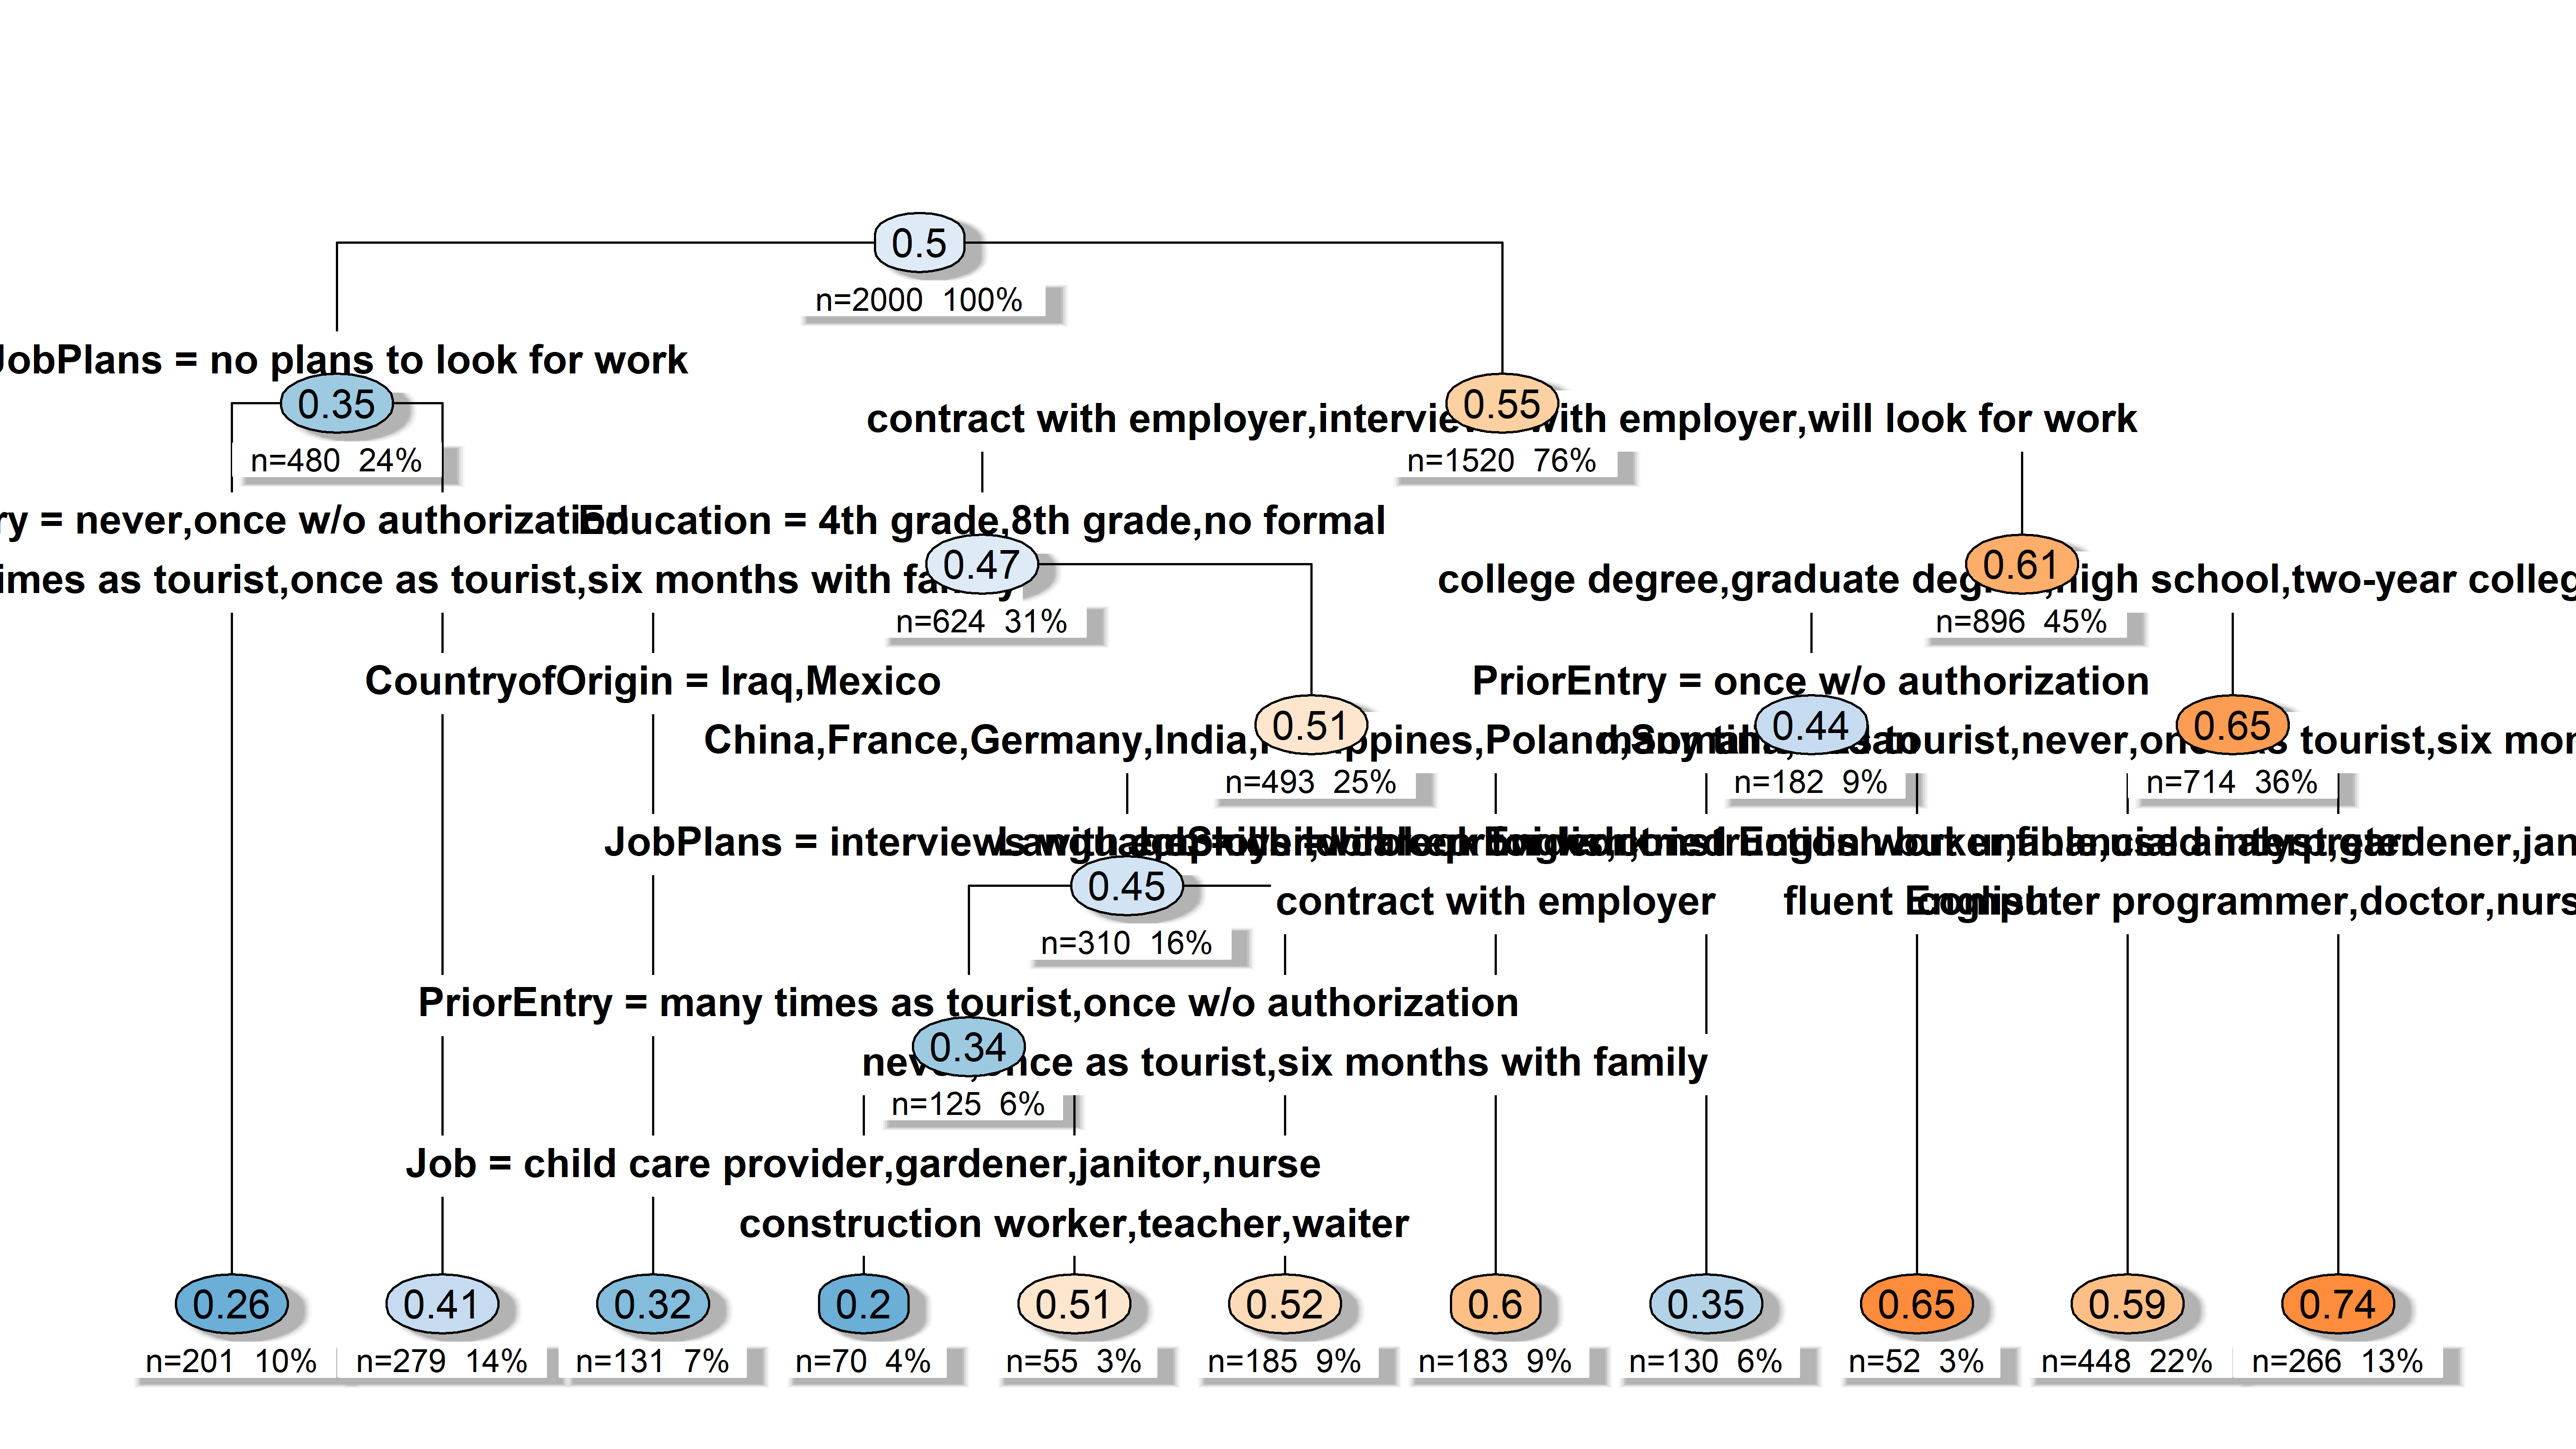
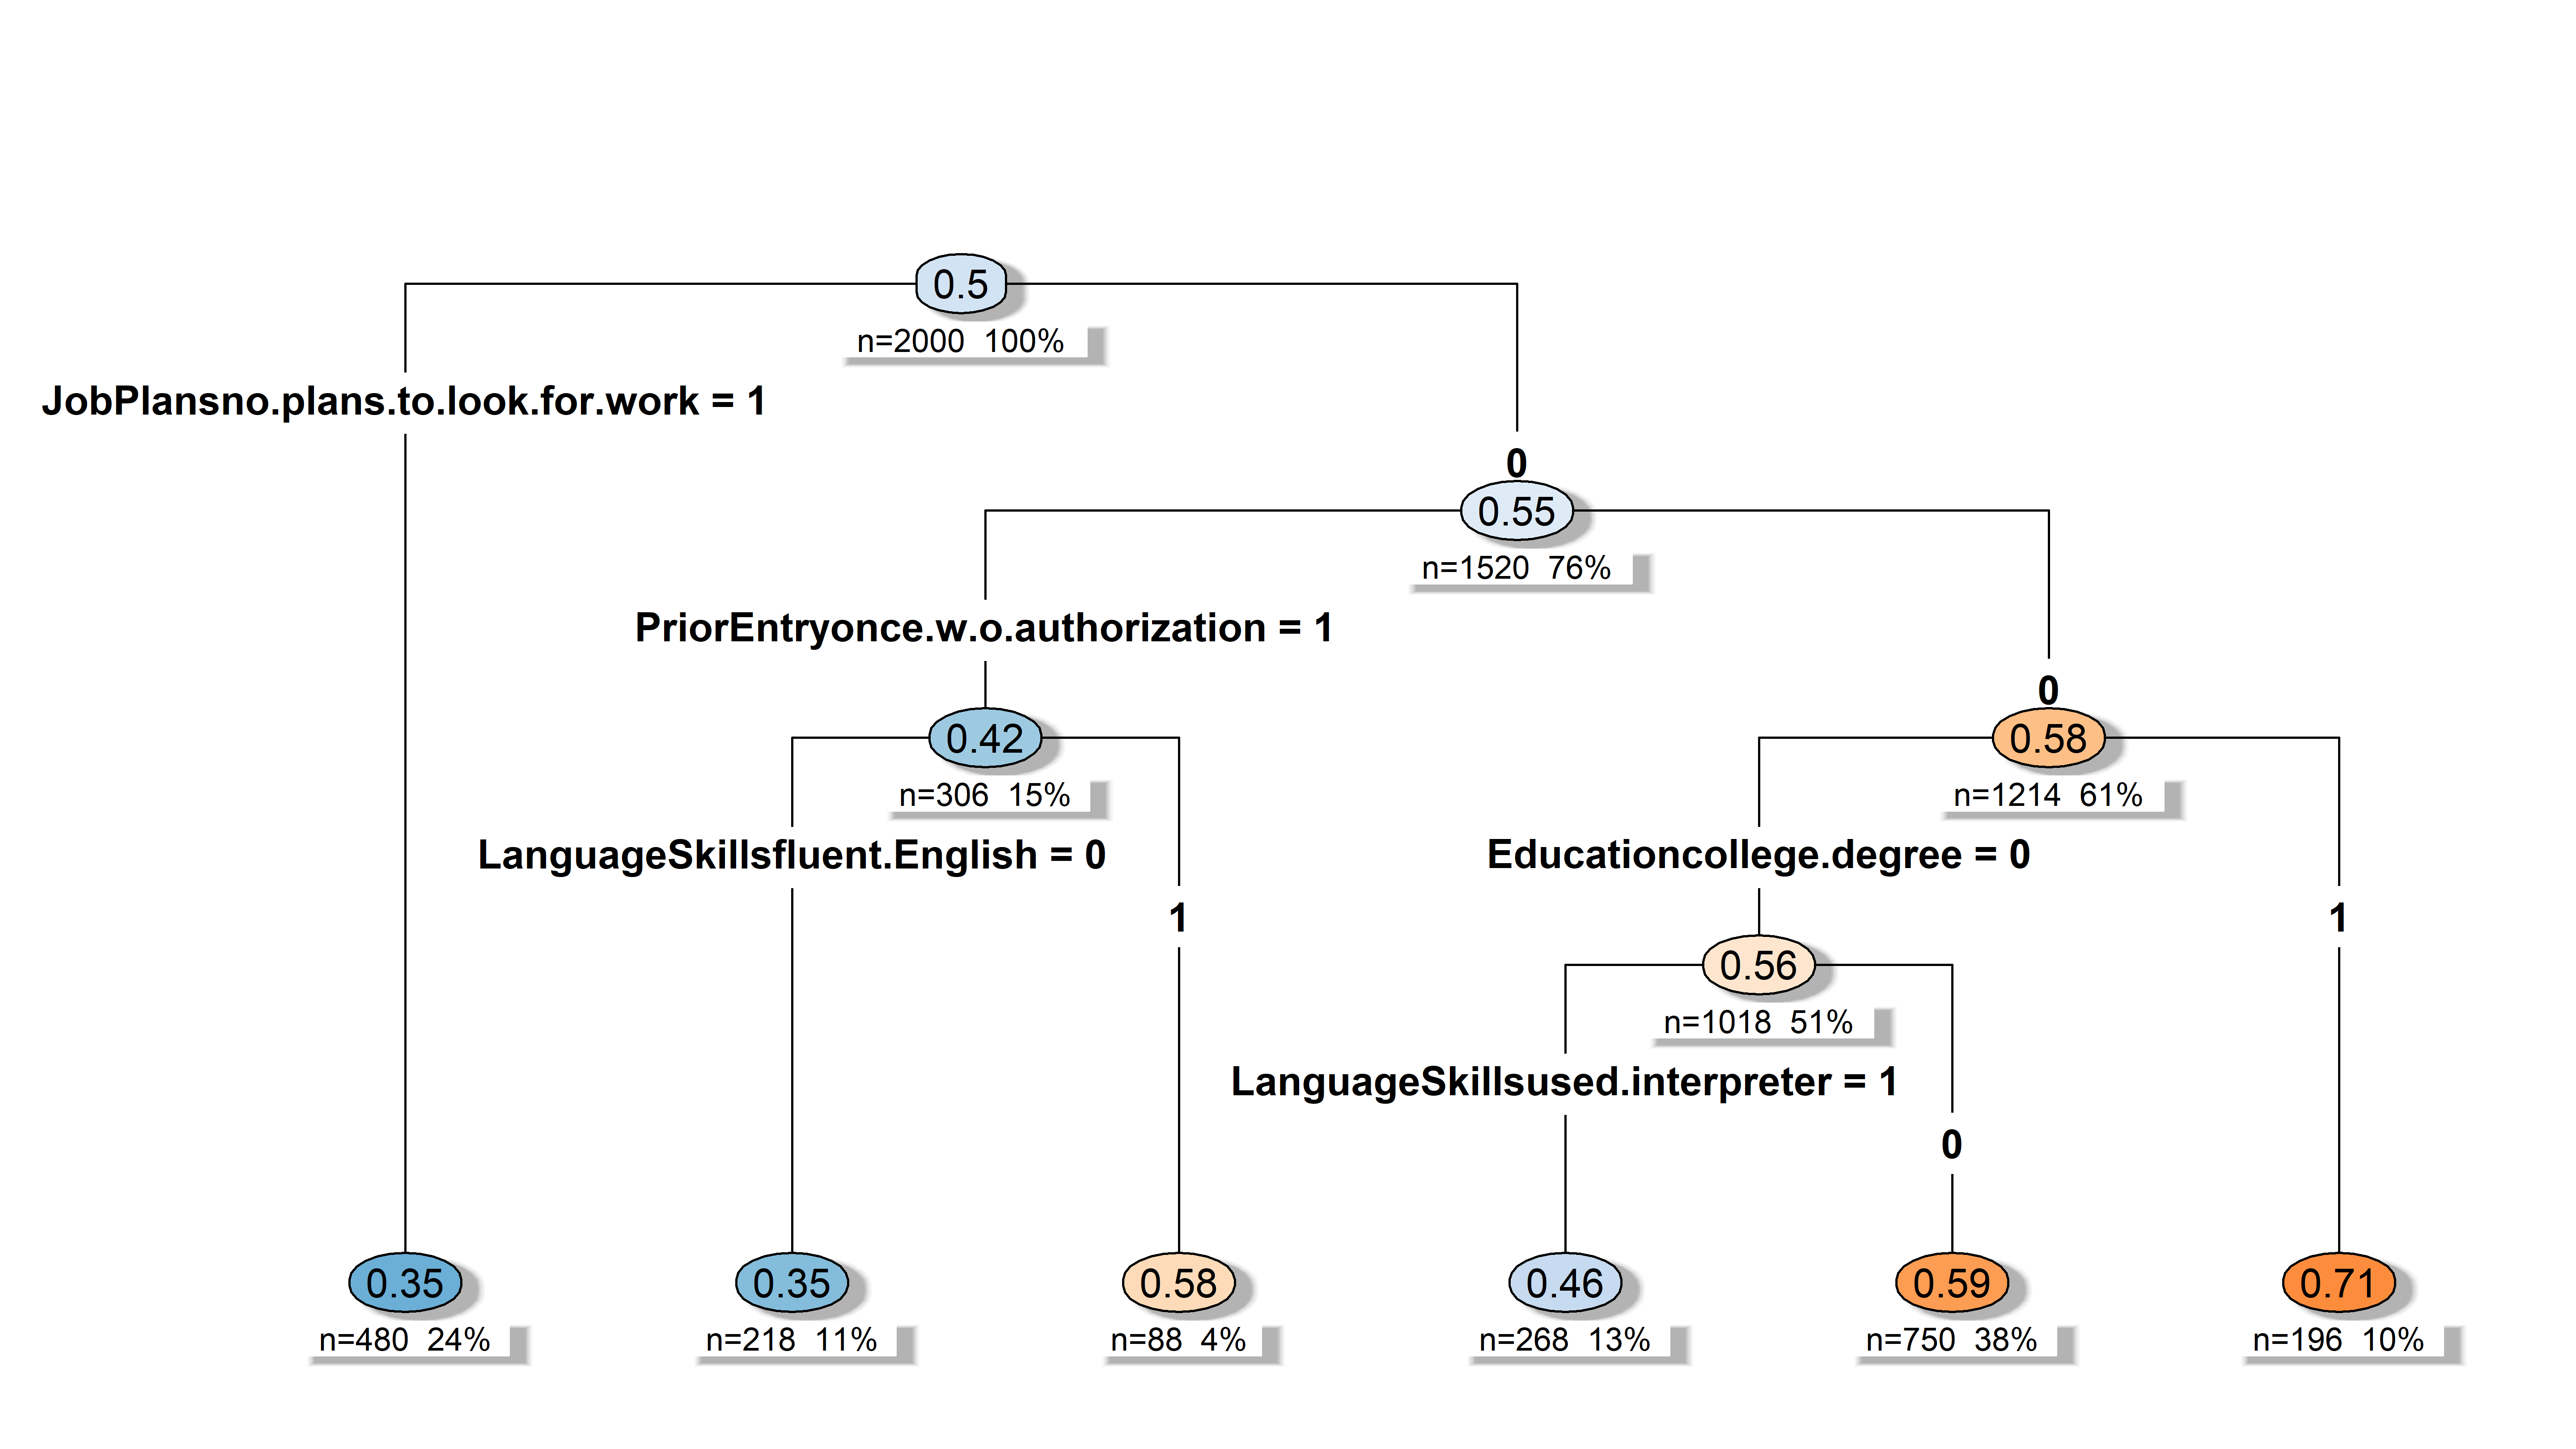
Deploying to gh-pages from @ dkarpa/cjdiag@f9db3eb0fa23a3e2dbb4739e40efe430881fabd5 🚀

Changed region(s): [[0.0, 0.1247, 1.0, 0.9664], [0.75, 0.7793, 0.7812, 0.8105]]

diff --git a/index.html b/index.html
@@ -134,12 +134,27 @@
 <span>    <span class="va">CountryofOrigin</span> <span class="op">+</span> <span class="va">Job</span> <span class="op">+</span> <span class="va">JobExperience</span> <span class="op">+</span> <span class="va">JobPlans</span> <span class="op">+</span></span>
 <span>    <span class="va">ReasonforApplication</span> <span class="op">+</span> <span class="va">PriorEntry</span>,</span>
 <span>  data <span class="op">=</span> <span class="va">immig</span>,</span>
-<span>  method <span class="op">=</span> <span class="st">"tree"</span>,</span>
-<span>  resolution <span class="op">=</span> <span class="st">"attributes"</span></span>
+<span>  method <span class="op">=</span> <span class="st">"tree"</span></span>
 <span><span class="op">)</span></span>
 <span></span>
 <span><span class="fu"><a href="https://rdrr.io/r/graphics/plot.default.html" class="external-link">plot</a></span><span class="op">(</span><span class="va">tr</span><span class="op">)</span></span></code></pre></div>
 <p><img src="reference/figures/README-tree-1.png" alt="" width="100%"></p>
+</div>
+<div class="section level3">
+<h3 id="nested-marginal-means">Nested Marginal Means<a class="anchor" aria-label="anchor" href="#nested-marginal-means"></a>
+</h3>
+<div class="sourceCode" id="cb6"><pre class="downlit sourceCode r">
+<code class="sourceCode R"><span><span class="va">nmm</span> <span class="op">&lt;-</span> <span class="fu"><a href="reference/cj_fit.html">cj_fit</a></span><span class="op">(</span></span>
+<span>  <span class="va">Chosen_Immigrant</span> <span class="op">~</span> <span class="va">Gender</span> <span class="op">+</span> <span class="va">Education</span> <span class="op">+</span> <span class="va">LanguageSkills</span> <span class="op">+</span></span>
+<span>    <span class="va">CountryofOrigin</span> <span class="op">+</span> <span class="va">Job</span> <span class="op">+</span> <span class="va">JobExperience</span> <span class="op">+</span> <span class="va">JobPlans</span> <span class="op">+</span></span>
+<span>    <span class="va">ReasonforApplication</span> <span class="op">+</span> <span class="va">PriorEntry</span>,</span>
+<span>  data <span class="op">=</span> <span class="va">immig</span>,</span>
+<span>  method <span class="op">=</span> <span class="st">"nmm"</span>,</span>
+<span>  resp_id <span class="op">=</span> <span class="st">"CaseID"</span></span>
+<span><span class="op">)</span></span>
+<span></span>
+<span><span class="fu"><a href="https://rdrr.io/r/graphics/plot.default.html" class="external-link">plot</a></span><span class="op">(</span><span class="va">nmm</span>, type <span class="op">=</span> <span class="st">"ranking"</span><span class="op">)</span></span></code></pre></div>
+<p><img src="reference/figures/README-nmm-1.png" alt="" width="100%"></p>
 </div>
 </div>
 <div class="section level2">
@@ -197,7 +212,7 @@
 <h2 id="plot-customization">Plot Customization<a class="anchor" aria-label="anchor" href="#plot-customization"></a>
 </h2>
 <p>All plot methods return ggplot2 objects and accept customization parameters:</p>
-<div class="sourceCode" id="cb6"><pre class="downlit sourceCode r">
+<div class="sourceCode" id="cb7"><pre class="downlit sourceCode r">
 <code class="sourceCode R"><span><span class="co"># Colorblind-safe palette</span></span>
 <span><span class="fu"><a href="https://rdrr.io/r/graphics/plot.default.html" class="external-link">plot</a></span><span class="op">(</span><span class="va">rf</span>, palette <span class="op">=</span> <span class="st">"colorblind"</span><span class="op">)</span></span>
 <span></span>
@@ -233,23 +248,23 @@
 <div class="section level2">
 <h2 id="citation">Citation<a class="anchor" aria-label="anchor" href="#citation"></a>
 </h2>
-<div class="sourceCode" id="cb7"><pre class="downlit sourceCode r">
+<div class="sourceCode" id="cb8"><pre class="downlit sourceCode r">
 <code class="sourceCode R"><span><span class="fu"><a href="https://rdrr.io/r/utils/citation.html" class="external-link">citation</a></span><span class="op">(</span><span class="st">"cjdiag"</span><span class="op">)</span></span></code></pre></div>
-<div class="sourceCode" id="cb8"><pre class="sourceCode R"><code class="sourceCode r"><span id="cb8-1"><a href="#cb8-1" tabindex="-1"></a>To cite package <span class="st">'cjdiag'</span> <span class="cf">in</span> publications use<span class="sc">:</span></span>
-<span id="cb8-2"><a href="#cb8-2" tabindex="-1"></a></span>
-<span id="cb8-3"><a href="#cb8-3" tabindex="-1"></a>  Karpa <span class="fu">D</span> (<span class="dv">2026</span>). _cjdiag<span class="sc">:</span> Diagnostic Tools <span class="cf">for</span> Conjoint Survey</span>
-<span id="cb8-4"><a href="#cb8-4" tabindex="-1"></a>  Experiments_. R package version <span class="dv">0</span>.<span class="fl">2.0</span>,</span>
-<span id="cb8-5"><a href="#cb8-5" tabindex="-1"></a>  <span class="sc">&lt;</span>https<span class="sc">:</span><span class="er">//</span>github.com<span class="sc">/</span>dkarpa<span class="sc">/</span>cjdiag<span class="sc">&gt;</span>.</span>
-<span id="cb8-6"><a href="#cb8-6" tabindex="-1"></a></span>
-<span id="cb8-7"><a href="#cb8-7" tabindex="-1"></a>A BibTeX entry <span class="cf">for</span> LaTeX users is</span>
-<span id="cb8-8"><a href="#cb8-8" tabindex="-1"></a></span>
-<span id="cb8-9"><a href="#cb8-9" tabindex="-1"></a>  <span class="sc">@</span>Manual{,</span>
-<span id="cb8-10"><a href="#cb8-10" tabindex="-1"></a>    title <span class="ot">=</span> {cjdiag<span class="sc">:</span> Diagnostic Tools <span class="cf">for</span> Conjoint Survey Experiments},</span>
-<span id="cb8-11"><a href="#cb8-11" tabindex="-1"></a>    author <span class="ot">=</span> {David Karpa},</span>
-<span id="cb8-12"><a href="#cb8-12" tabindex="-1"></a>    year <span class="ot">=</span> {<span class="dv">2026</span>},</span>
-<span id="cb8-13"><a href="#cb8-13" tabindex="-1"></a>    note <span class="ot">=</span> {R package version <span class="dv">0</span>.<span class="fl">2.0</span>},</span>
-<span id="cb8-14"><a href="#cb8-14" tabindex="-1"></a>    url <span class="ot">=</span> {https<span class="sc">:</span><span class="er">//</span>github.com<span class="sc">/</span>dkarpa<span class="sc">/</span>cjdiag},</span>
-<span id="cb8-15"><a href="#cb8-15" tabindex="-1"></a>  }</span></code></pre></div>
+<div class="sourceCode" id="cb9"><pre class="sourceCode R"><code class="sourceCode r"><span id="cb9-1"><a href="#cb9-1" tabindex="-1"></a>To cite package <span class="st">'cjdiag'</span> <span class="cf">in</span> publications use<span class="sc">:</span></span>
+<span id="cb9-2"><a href="#cb9-2" tabindex="-1"></a></span>
+<span id="cb9-3"><a href="#cb9-3" tabindex="-1"></a>  Karpa <span class="fu">D</span> (<span class="dv">2026</span>). _cjdiag<span class="sc">:</span> Diagnostic Tools <span class="cf">for</span> Conjoint Survey</span>
+<span id="cb9-4"><a href="#cb9-4" tabindex="-1"></a>  Experiments_. R package version <span class="dv">0</span>.<span class="fl">2.0</span>,</span>
+<span id="cb9-5"><a href="#cb9-5" tabindex="-1"></a>  <span class="sc">&lt;</span>https<span class="sc">:</span><span class="er">//</span>github.com<span class="sc">/</span>dkarpa<span class="sc">/</span>cjdiag<span class="sc">&gt;</span>.</span>
+<span id="cb9-6"><a href="#cb9-6" tabindex="-1"></a></span>
+<span id="cb9-7"><a href="#cb9-7" tabindex="-1"></a>A BibTeX entry <span class="cf">for</span> LaTeX users is</span>
+<span id="cb9-8"><a href="#cb9-8" tabindex="-1"></a></span>
+<span id="cb9-9"><a href="#cb9-9" tabindex="-1"></a>  <span class="sc">@</span>Manual{,</span>
+<span id="cb9-10"><a href="#cb9-10" tabindex="-1"></a>    title <span class="ot">=</span> {cjdiag<span class="sc">:</span> Diagnostic Tools <span class="cf">for</span> Conjoint Survey Experiments},</span>
+<span id="cb9-11"><a href="#cb9-11" tabindex="-1"></a>    author <span class="ot">=</span> {David Karpa},</span>
+<span id="cb9-12"><a href="#cb9-12" tabindex="-1"></a>    year <span class="ot">=</span> {<span class="dv">2026</span>},</span>
+<span id="cb9-13"><a href="#cb9-13" tabindex="-1"></a>    note <span class="ot">=</span> {R package version <span class="dv">0</span>.<span class="fl">2.0</span>},</span>
+<span id="cb9-14"><a href="#cb9-14" tabindex="-1"></a>    url <span class="ot">=</span> {https<span class="sc">:</span><span class="er">//</span>github.com<span class="sc">/</span>dkarpa<span class="sc">/</span>cjdiag},</span>
+<span id="cb9-15"><a href="#cb9-15" tabindex="-1"></a>  }</span></code></pre></div>
 </div>
 </div>
   </main><aside class="col-md-3"><div class="links">

diff --git a/articles/introduction.html b/articles/introduction.html
@@ -194,30 +194,34 @@ the one that matters most. Deeper splits are conditional on earlier
 ones. Tree depth indicates how many attributes are needed to explain
 most choices.</p>
 <div class="sourceCode" id="cb10"><pre class="downlit sourceCode r">
-<code class="sourceCode R"><span><span class="va">tr</span> <span class="op">&lt;-</span> <span class="fu"><a href="../reference/cj_fit.html">cj_fit</a></span><span class="op">(</span><span class="va">f</span>, data <span class="op">=</span> <span class="va">immig</span>, method <span class="op">=</span> <span class="st">"tree"</span>, resolution <span class="op">=</span> <span class="st">"attributes"</span><span class="op">)</span></span>
+<code class="sourceCode R"><span><span class="va">tr</span> <span class="op">&lt;-</span> <span class="fu"><a href="../reference/cj_fit.html">cj_fit</a></span><span class="op">(</span><span class="va">f</span>, data <span class="op">=</span> <span class="va">immig</span>, method <span class="op">=</span> <span class="st">"tree"</span><span class="op">)</span></span>
 <span><span class="va">tr</span></span>
 <span><span class="co">#&gt; Conjoint Decision Tree </span></span>
 <span><span class="co">#&gt; ====================== </span></span>
 <span><span class="co">#&gt; </span></span>
-<span><span class="co">#&gt; Resolution: attributes</span></span>
+<span><span class="co">#&gt; Resolution: levels</span></span>
 <span><span class="co">#&gt; Complexity (cp): 0.005</span></span>
-<span><span class="co">#&gt; Root split: JobPlans</span></span>
-<span><span class="co">#&gt; Depth: 6</span></span>
-<span><span class="co">#&gt; Terminal nodes: 11</span></span>
+<span><span class="co">#&gt; Root split: JobPlansno.plans.to.look.for.work</span></span>
+<span><span class="co">#&gt; Depth: 4</span></span>
+<span><span class="co">#&gt; Terminal nodes: 6</span></span>
 <span><span class="co">#&gt; Observations: 2,000</span></span>
+<span><span class="co">#&gt; Levels: 50</span></span>
 <span><span class="co">#&gt; </span></span>
-<span><span class="co">#&gt; Top 7 attributes by importance:</span></span>
+<span><span class="co">#&gt; Top 10 levels by importance:</span></span>
 <span><span class="co">#&gt; </span></span>
-<span><span class="co">#&gt; <span style="color: #949494;"># A tibble: 7 × 3</span></span></span>
-<span><span class="co">#&gt;    rank attribute            importance</span></span>
-<span><span class="co">#&gt;   <span style="color: #949494; font-style: italic;">&lt;int&gt;</span> <span style="color: #949494; font-style: italic;">&lt;chr&gt;</span>                     <span style="color: #949494; font-style: italic;">&lt;dbl&gt;</span></span></span>
-<span><span class="co">#&gt; <span style="color: #BCBCBC;">1</span>     1 JobPlans                17.7   </span></span>
-<span><span class="co">#&gt; <span style="color: #BCBCBC;">2</span>     2 PriorEntry              11.6   </span></span>
-<span><span class="co">#&gt; <span style="color: #BCBCBC;">3</span>     3 Education                7.39  </span></span>
-<span><span class="co">#&gt; <span style="color: #BCBCBC;">4</span>     4 Job                      6.88  </span></span>
-<span><span class="co">#&gt; <span style="color: #BCBCBC;">5</span>     5 CountryofOrigin          4.00  </span></span>
-<span><span class="co">#&gt; <span style="color: #BCBCBC;">6</span>     6 LanguageSkills           3.72  </span></span>
-<span><span class="co">#&gt; <span style="color: #BCBCBC;">7</span>     7 ReasonforApplication     0.063<span style="text-decoration: underline;">5</span></span></span></code></pre></div>
+<span><span class="co">#&gt; <span style="color: #949494;"># A tibble: 10 × 4</span></span></span>
+<span><span class="co">#&gt;     rank attribute      level                     importance</span></span>
+<span><span class="co">#&gt;    <span style="color: #949494; font-style: italic;">&lt;int&gt;</span> <span style="color: #949494; font-style: italic;">&lt;chr&gt;</span>          <span style="color: #949494; font-style: italic;">&lt;chr&gt;</span>                          <span style="color: #949494; font-style: italic;">&lt;dbl&gt;</span></span></span>
+<span><span class="co">#&gt; <span style="color: #BCBCBC;"> 1</span>     1 JobPlans       no plans to look for work      15.0 </span></span>
+<span><span class="co">#&gt; <span style="color: #BCBCBC;"> 2</span>     2 PriorEntry     once w/o authorization          6.51</span></span>
+<span><span class="co">#&gt; <span style="color: #BCBCBC;"> 3</span>     3 Education      college degree                  3.81</span></span>
+<span><span class="co">#&gt; <span style="color: #BCBCBC;"> 4</span>     4 LanguageSkills used interpreter                3.49</span></span>
+<span><span class="co">#&gt; <span style="color: #BCBCBC;"> 5</span>     5 LanguageSkills fluent English                  3.21</span></span>
+<span><span class="co">#&gt; <span style="color: #BCBCBC;"> 6</span>     6 Gender         female                          0   </span></span>
+<span><span class="co">#&gt; <span style="color: #BCBCBC;"> 7</span>     7 Gender         male                            0   </span></span>
+<span><span class="co">#&gt; <span style="color: #BCBCBC;"> 8</span>     8 Education      4th grade                       0   </span></span>
+<span><span class="co">#&gt; <span style="color: #BCBCBC;"> 9</span>     9 Education      8th grade                       0   </span></span>
+<span><span class="co">#&gt; <span style="color: #BCBCBC;">10</span>    10 Education      graduate degree                 0</span></span></code></pre></div>
 <div class="sourceCode" id="cb11"><pre class="downlit sourceCode r">
 <code class="sourceCode R"><span><span class="fu"><a href="https://rdrr.io/r/graphics/plot.default.html" class="external-link">plot</a></span><span class="op">(</span><span class="va">tr</span><span class="op">)</span></span></code></pre></div>
 <p><img src="introduction_files/figure-html/tree-plot-1.png" class="r-plt" alt="" width="864"></p>

diff --git a/articles/introduction.md b/articles/introduction.md
@@ -147,30 +147,34 @@ that matters most. Deeper splits are conditional on earlier ones. Tree
 depth indicates how many attributes are needed to explain most choices.
 
 ``` r
-tr <- cj_fit(f, data = immig, method = "tree", resolution = "attributes")
+tr <- cj_fit(f, data = immig, method = "tree")
 tr
 #> Conjoint Decision Tree 
 #> ====================== 
 #> 
-#> Resolution: attributes
+#> Resolution: levels
 #> Complexity (cp): 0.005
-#> Root split: JobPlans
-#> Depth: 6
-#> Terminal nodes: 11
+#> Root split: JobPlansno.plans.to.look.for.work
+#> Depth: 4
+#> Terminal nodes: 6
 #> Observations: 2,000
+#> Levels: 50
 #> 
-#> Top 7 attributes by importance:
+#> Top 10 levels by importance:
 #> 
-#> # A tibble: 7 × 3
-#>    rank attribute            importance
-#>   <int> <chr>                     <dbl>
-#> 1     1 JobPlans                17.7   
-#> 2     2 PriorEntry              11.6   
-#> 3     3 Education                7.39  
-#> 4     4 Job                      6.88  
-#> 5     5 CountryofOrigin          4.00  
-#> 6     6 LanguageSkills           3.72  
-#> 7     7 ReasonforApplication     0.0635
+#> # A tibble: 10 × 4
+#>     rank attribute      level                     importance
+#>    <int> <chr>          <chr>                          <dbl>
+#>  1     1 JobPlans       no plans to look for work      15.0 
+#>  2     2 PriorEntry     once w/o authorization          6.51
+#>  3     3 Education      college degree                  3.81
+#>  4     4 LanguageSkills used interpreter                3.49
+#>  5     5 LanguageSkills fluent English                  3.21
+#>  6     6 Gender         female                          0   
+#>  7     7 Gender         male                            0   
+#>  8     8 Education      4th grade                       0   
+#>  9     9 Education      8th grade                       0   
+#> 10    10 Education      graduate degree                 0
 ```
 
 ``` r

diff --git a/index.md b/index.md
@@ -91,14 +91,30 @@ tr <- cj_fit(
     CountryofOrigin + Job + JobExperience + JobPlans +
     ReasonforApplication + PriorEntry,
   data = immig,
-  method = "tree",
-  resolution = "attributes"
+  method = "tree"
 )
 
 plot(tr)
 ```
 
 ![](reference/figures/README-tree-1.png)
+
+### Nested Marginal Means
+
+``` r
+nmm <- cj_fit(
+  Chosen_Immigrant ~ Gender + Education + LanguageSkills +
+    CountryofOrigin + Job + JobExperience + JobPlans +
+    ReasonforApplication + PriorEntry,
+  data = immig,
+  method = "nmm",
+  resp_id = "CaseID"
+)
+
+plot(nmm, type = "ranking")
+```
+
+![](reference/figures/README-nmm-1.png)
 
 ## Methods
 